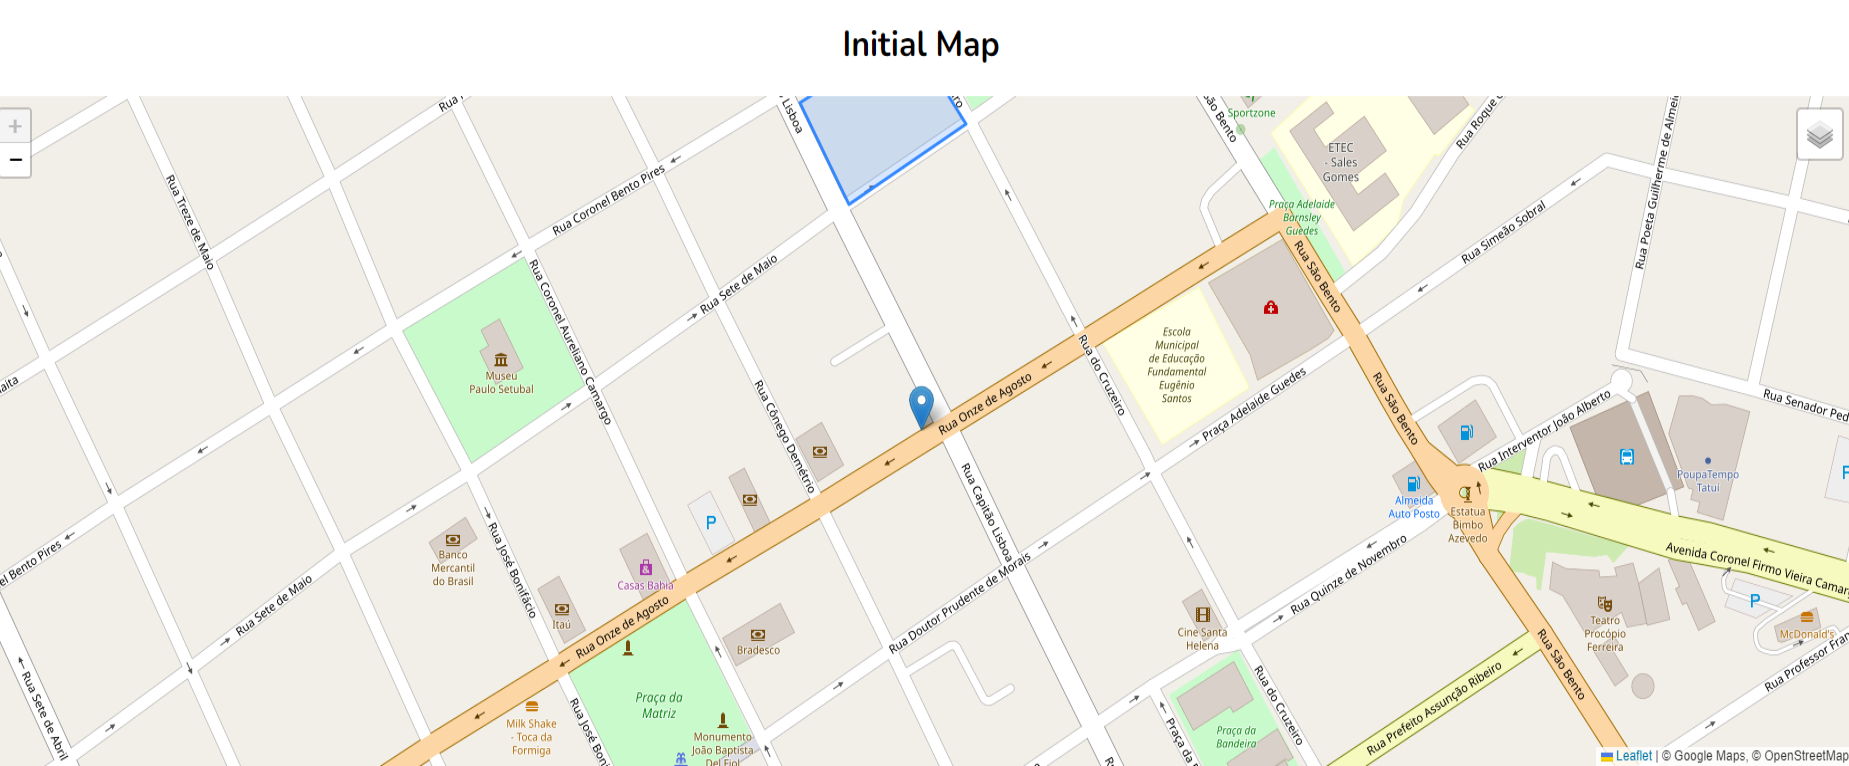
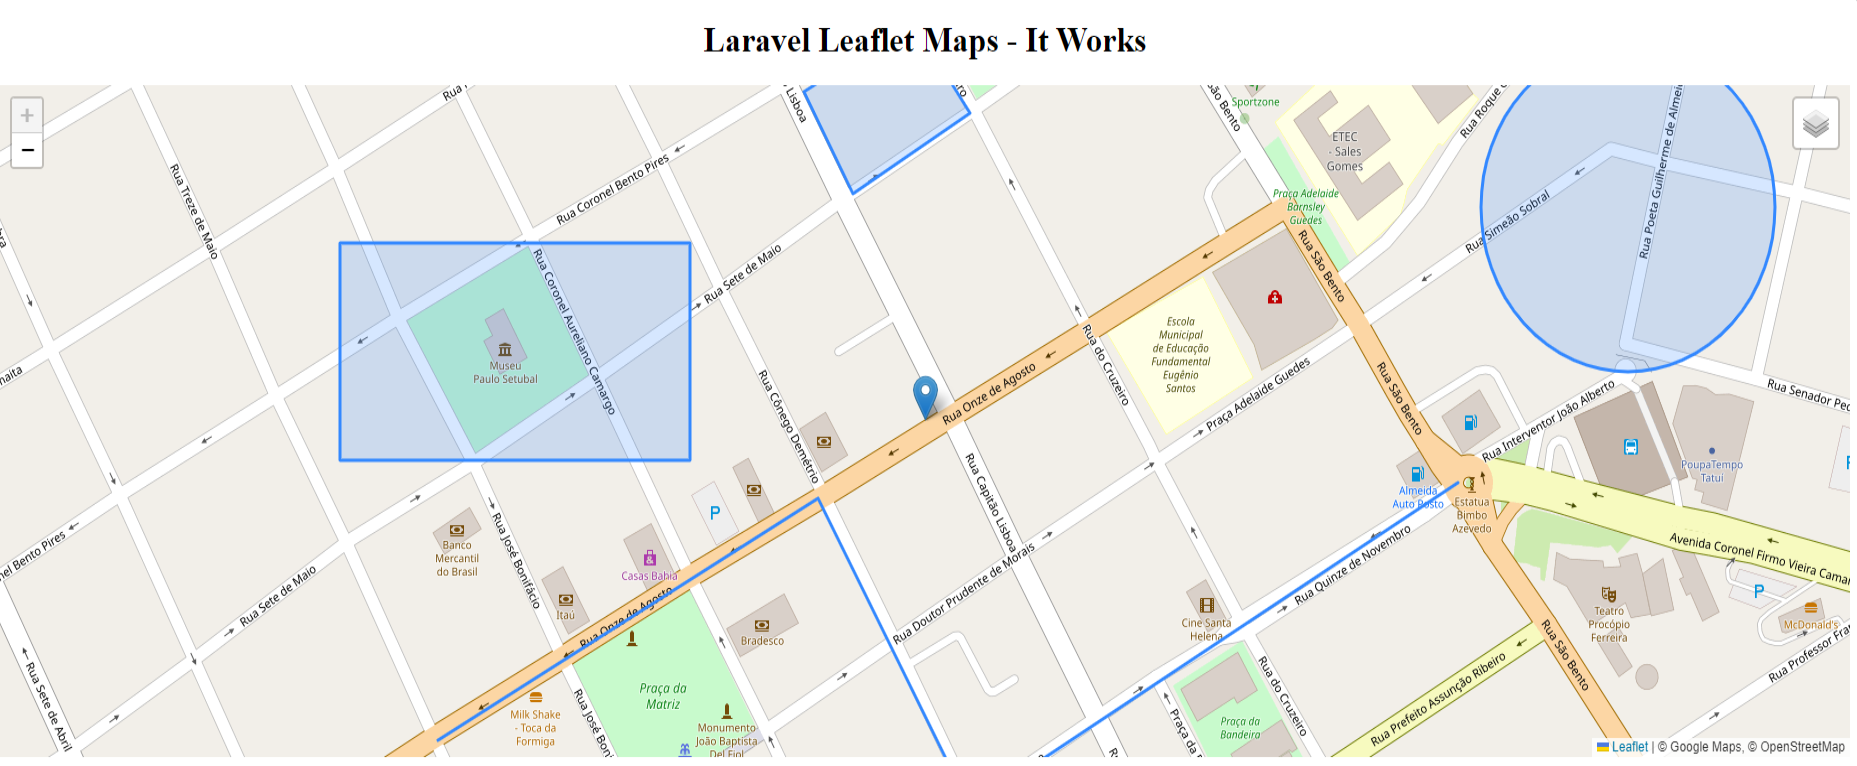
👌 Improve: Polylines, Rectangles and Circles

diff --git a/src/views/components/laravel-map.blade.php b/src/views/components/laravel-map.blade.php
@@ -26,6 +26,9 @@
             const options = {!! json_encode($options) !!};
             const initialMarkers = {!! json_encode($initialMarkers ?? '') !!};
             const initialPolygons = {!! json_encode($initialPolygons ?? '') !!};
+            const initialPolylines = {!! json_encode($initialPolylines ?? '') !!};
+            const initialRectangles = {!! json_encode($initialRectangles ?? '') !!};
+            const initialCircles = {!! json_encode($initialCircles ?? '') !!};
 
             map = L.map('map', {
                 center: {
@@ -59,8 +62,21 @@
             map.on('click', mapClicked);
             if (initialMarkers != '') { initMarkers(initialMarkers,options); }
             if (initialPolygons != '') { initPolygons(initialPolygons); }
+            if (initialPolylines != '') { initPolylines(initialPolylines); }
+            if (initialRectangles != '') { initRectangles(initialRectangles); }
+            if (initialCircles != '') { initCircles(initialCircles); }
         }
         initMap();
+
+        const popup = L.popup();
+
+        function generateMarker(data, index) {
+            return L.marker(data.position, {
+                    draggable: data.draggable
+                })
+                .on('click', (event) => markerClicked(event, index))
+                .on('dragend', (event) => markerDragEnd(event, index));
+        }        
 
         /* --------------------------- Initialize Markers --------------------------- */
         function initMarkers(initialMarkers,options) {
@@ -98,15 +114,32 @@
             }
         }
 
-        const popup = L.popup();
+        /* --------------------------- Initialize Polylines --------------------------- */
+        function initPolylines(initialPolylines) {
 
-        function generateMarker(data, index) {
-            return L.marker(data.position, {
-                    draggable: data.draggable
-                })
-                .on('click', (event) => markerClicked(event, index))
-                .on('dragend', (event) => markerDragEnd(event, index));
+            for (let index = 0; index < initialPolylines.length; index++) {
+                const data = initialPolylines[index];
+                const polyline = L.polyline(data).addTo(map).bindPopup(`I am a Polyline`);
+            }
+        }  
+        
+        /* --------------------------- Initialize Rectangles --------------------------- */
+        function initRectangles(initialRectangles) {
+
+            for (let index = 0; index < initialRectangles.length; index++) {
+                const data = initialRectangles[index];
+                const rectangle = L.rectangle(data).addTo(map).bindPopup(`I am a Rectangle`);
+            }
         }
+
+        /* --------------------------- Initialize Circles --------------------------- */
+        function initCircles(initialCircles) {
+
+            for (let index = 0; index < initialCircles.length; index++) {
+                const data = initialCircles[index];
+                const circle = L.circle(data.position, {radius: data.radius}).addTo(map).bindPopup(`I am a Circle`);
+            }
+        }        
 
         /* ------------------------- Handle Map Click Event ------------------------- */
         function mapClicked($event) {

diff --git a/src/views/map.blade.php b/src/views/map.blade.php
@@ -31,6 +31,9 @@
             const options = {!! json_encode($options) !!};
             const initialMarkers = {!! json_encode($initialMarkers ?? '') !!};
             const initialPolygons = {!! json_encode($initialPolygons ?? '') !!};
+            const initialPolylines = {!! json_encode($initialPolylines ?? '') !!};
+            const initialRectangles = {!! json_encode($initialRectangles ?? '') !!};
+            const initialCircles = {!! json_encode($initialCircles ?? '') !!};
 
             map = L.map('map', {
                 center: {
@@ -64,8 +67,22 @@
             map.on('click', mapClicked);
             if (initialMarkers != '') { initMarkers(initialMarkers,options); }
             if (initialPolygons != '') { initPolygons(initialPolygons); }
+            if (initialPolylines != '') { initPolylines(initialPolylines); }
+            if (initialRectangles != '') { initRectangles(initialRectangles); }
+            if (initialCircles != '') { initCircles(initialCircles); }
         }
         initMap();
+
+        const popup = L.popup();
+
+        function generateMarker(data, index) {
+            return L.marker(data.position, {
+                    draggable: data.draggable
+                })
+                .on('click', (event) => markerClicked(event, index))
+                .on('dragend', (event) => markerDragEnd(event, index));
+        }
+
 
         /* --------------------------- Initialize Markers --------------------------- */
         function initMarkers(initialMarkers,options) {
@@ -100,6 +117,33 @@
             for (let index = 0; index < initialPolygons.length; index++) {
                 const data = initialPolygons[index];
                 const polygon = L.polygon(data).addTo(map).bindPopup(`I am a Polygon`);
+            }
+        }
+
+        /* --------------------------- Initialize Polylines --------------------------- */
+        function initPolylines(initialPolylines) {
+
+            for (let index = 0; index < initialPolylines.length; index++) {
+                const data = initialPolylines[index];
+                const polyline = L.polyline(data).addTo(map).bindPopup(`I am a Polyline`);
+            }
+        }
+
+        /* --------------------------- Initialize Rectangles --------------------------- */
+        function initRectangles(initialRectangles) {
+
+            for (let index = 0; index < initialRectangles.length; index++) {
+                const data = initialRectangles[index];
+                const rectangle = L.rectangle(data).addTo(map).bindPopup(`I am a Rectangle`);
+            }
+        }
+        
+        /* --------------------------- Initialize Circles --------------------------- */
+        function initCircles(initialCircles) {
+
+            for (let index = 0; index < initialCircles.length; index++) {
+                const data = initialCircles[index];
+                const circle = L.circle(data.position, {radius: data.radius}).addTo(map).bindPopup(`I am a Circle`);
             }
         }
 

diff --git a/src/View/Components/LaravelMap.php b/src/View/Components/LaravelMap.php
@@ -11,18 +11,24 @@ class LaravelMap extends Component
     public $title;
     public $initialMarkers = [];
     public $initialPolygons = [];
+    public $initialPolylines = [];
+    public $initialRectangles = [];
+    public $initialCircles = [];
 
     /**
      * Create a new component instance.
      *
      * @return void
      */
-    public function __construct($options = null, $title = null, $initialMarkers = null, $initialPolygons = null)
+    public function __construct($options = null, $title = null, $initialMarkers = null, $initialPolygons = null, $initialPolylines = null, $initialRectangles = null, $initialCircles = null)
     {
         $this->options = $options;
         $this->title = $title;
         $this->initialMarkers = $initialMarkers;
         $this->initialPolygons = $initialPolygons;
+        $this->initialPolylines = $initialPolylines;
+        $this->initialRectangles = $initialRectangles;
+        $this->initialCircles = $initialCircles;
     }
 
     /**
@@ -34,8 +40,11 @@ class LaravelMap extends Component
     {
         return view('LaravelLeaflet::components.laravel-map',[
             'title' => $this->title,
-            'initialMarkers' => $this->initialPolygons,
+            'initialMarkers' => $this->initialMarkers,
             'initialPolygons' => $this->initialPolygons,
+            'initialPolylines' => $this->initialPolylines,
+            'initialRectangles' => $this->initialRectangles,
+            'initialCircles' => $this->initialCircles,
             'options' => $this->options
 
         ]);

diff --git a/src/Http/Controllers/MapController.php b/src/Http/Controllers/MapController.php
@@ -38,9 +38,32 @@ class MapController extends Controller
                 [-23.34651189716213 , -47.84792125225068]
             ]
         ];
+        $initialPolylines = [
+            [
+                [-23.348914298657980 , -47.850147485733040],
+                [-23.347850469110245 , -47.848109006881714],
+                [-23.349209805352476 , -47.847293615341194],
+                [-23.347781516900888 , -47.844675779342660]               
+            ]
+        ];
+        $initialRectangles = [
+            [
+                [-23.347683013682527 , -47.85067319869996],
+                [-23.346727528670904 , -47.84879565238953]
+            ]
+        ];
+        $initialCircles = [
+            [
+                'position' => [ 
+                    'lat' => -23.346569922234977, 
+                    'lng' => -47.84376382827759
+                ],
+                'radius' => 80.68230575309364
+            ]
+        ];
         $title = 'Initial Map';
 
-        return view('LaravelLeaflet::map', compact('options','title','initialMarkers','initialPolygons'));
+        return view('LaravelLeaflet::map', compact('options','title','initialMarkers','initialPolygons','initialPolylines','initialRectangles','initialCircles'));
     }
 
 }

diff --git a/README.md b/README.md
@@ -72,9 +72,32 @@ Implement $title and $markers in your Controller and pass to view
             [-23.34651189716213 , -47.84792125225068]
         ]
     ];
+    $initialPolylines = [
+            [
+                [-23.348914298657980 , -47.850147485733040],
+                [-23.347850469110245 , -47.848109006881714],
+                [-23.349209805352476 , -47.847293615341194],
+                [-23.347781516900888 , -47.844675779342660]               
+            ]
+    ];
+    $initialRectangles = [
+        [
+            [-23.347683013682527 , -47.85067319869996],
+            [-23.346727528670904 , -47.84879565238953]
+        ]
+    ];
+    $initialCircles = [
+        [
+            'position' => [ 
+                'lat' => -23.346569922234977, 
+                'lng' => -47.84376382827759
+            ],
+            'radius' => 80.68230575309364
+        ]
+    ];
     $title = 'Initial Map';
     
-    return view('welcome',compact('options','title','initialMarkers','initialPolygons'));
+    return view('welcome',compact('options','title','initialMarkers','initialPolygons','initialPolylines','initialRectangles','initialCircles'));
 
 ```
 
@@ -83,7 +106,7 @@ Drop the blade component in the view
 ```php
 
         <div>
-            <x-laravel-map :title="$title" :initialMarkers="$initialMarkers" :initialPolygons="$initialPolygons"  :options="$options"/>
+            <x-laravel-map :title="$title" :initialMarkers="$initialMarkers" :initialPolygons="$initialPolygons" :initialPolylines="$initialPolylines" :initialRectangles="$initialRectangles" :initialCircles="$initialCircles" :options="$options"/>
         </div>
 
 ```
